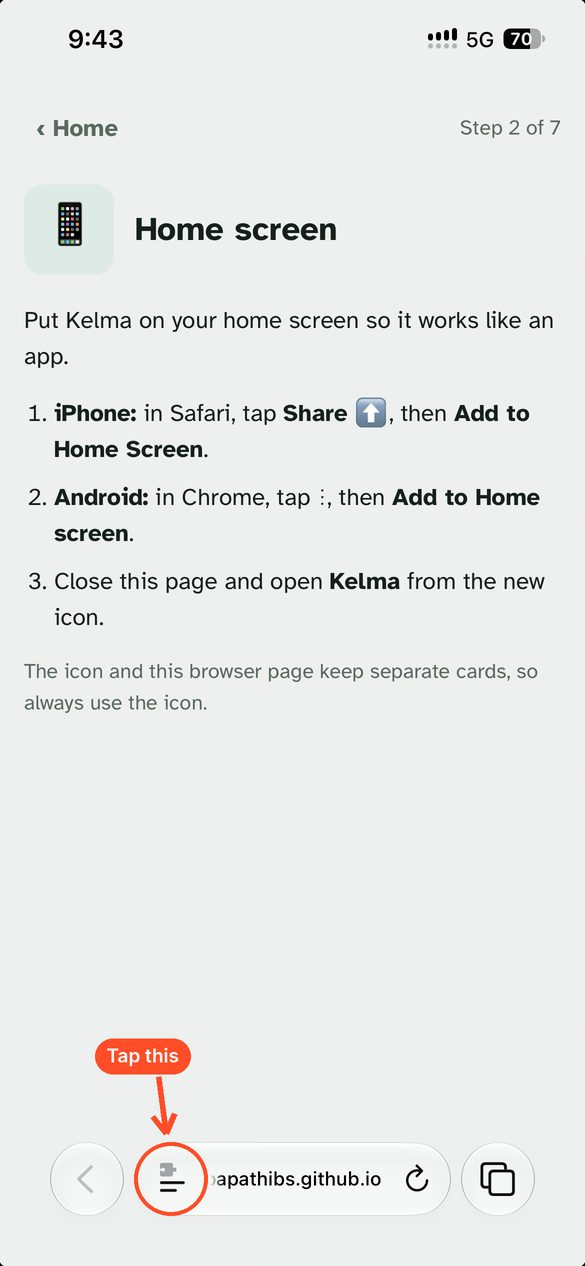
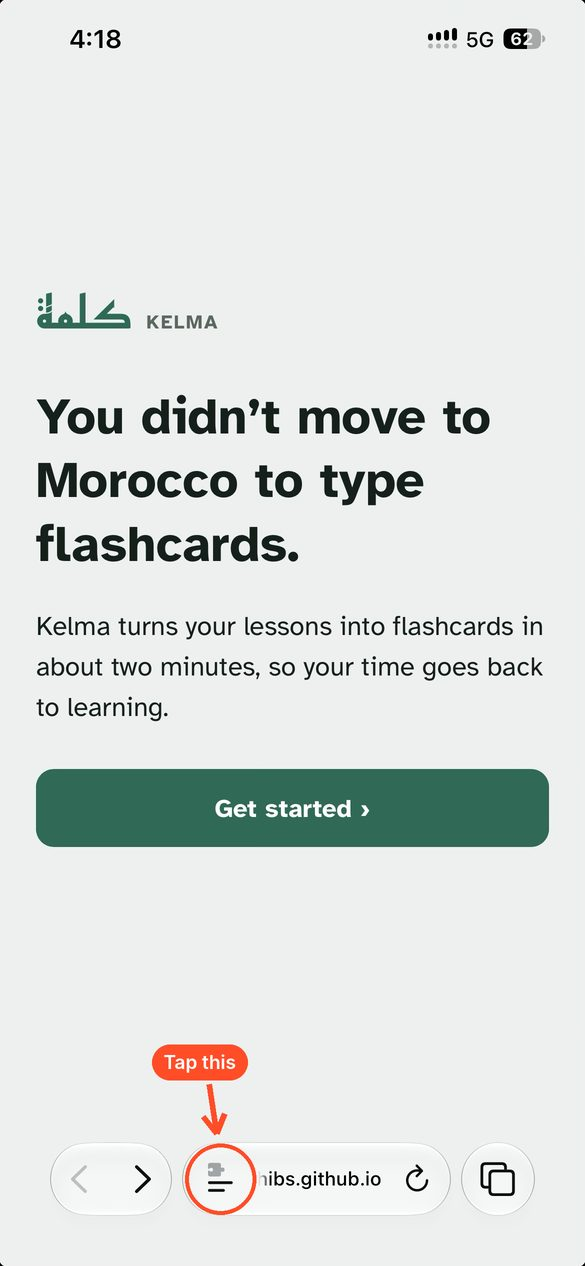
Kelma v38: new install pictures taken on the welcome screen, 3 steps
Claude-Session: https://claude.ai/code/session_01H4mFMgrQK5AXijzbRKhfPu

diff --git a/index.html b/index.html
@@ -372,7 +372,7 @@ input[type=file]{position:absolute;width:1px;height:1px;opacity:0;pointer-events
 <script>
 (function(){
 const STANDALONE=(window.matchMedia&&matchMedia('(display-mode: standalone)').matches)||navigator.standalone===true;
-const INSTR=8, APP_VERSION=37;
+const INSTR=8, APP_VERSION=38;
 const TAGS={noun:['🏷','Noun'],verb:['⚡','Verb'],adjective:['🎨','Adjective'],connector:['🔗','Connector'],question:['❓','Question'],phrase:['🗨','Phrase'],proverb:['💬','Proverb'],verse:['📖','Verse'],spiritual:['🙏','Spiritual'],instruction:['📝','Instruction']};
 const DAY=86400000, TYPES=['listening','recognition','production'];
 const app=document.getElementById('app'), fileIn=document.getElementById('file'), player=document.getElementById('player');
@@ -941,9 +941,8 @@ function stepPage(){
     `<p>Put Kelma on your home screen so it works like an app.</p>
     <div class="shots"><figure>${shot('h1-menu.jpg','Tap the button left of the address')}<figcaption>1. Tap the button to the <b>left of the address</b></figcaption></figure>
     <figure>${shot('h2-share.jpg','Tap Share')}<figcaption>2. Tap <b>Share</b></figcaption></figure>
-    <figure>${shot('h3-more.jpg','Tap View More')}<figcaption>3. Tap <b>View More</b></figcaption></figure>
-    <figure>${shot('h4-add.jpg','Tap Add to Home Screen')}<figcaption>4. Tap <b>Add to Home Screen</b></figcaption></figure></div>
-    <p>5. Tap <b>Add</b>. Close Safari and open <b>Kelma</b> from the new icon.</p>
+    <figure>${shot('h3-add.jpg','Scroll down and tap Add to Home Screen')}<figcaption>3. Scroll down, tap <b>Add to Home Screen</b></figcaption></figure></div>
+    <p>4. Tap <b>Add</b>. Close Safari and open <b>Kelma</b> from the new icon.</p>
     <p class="fine">On older iPhones, Share is the ⬆ button at the bottom of Safari.<br><b>Android:</b> in Chrome, tap ⋮, then <b>Add to Home screen</b>.<br>The icon and this browser page keep separate cards, so always use the icon.</p>`;
   else if(x.k==='name')b=dn?`<p>You’re <b>${esc(curProfile().name)}</b>. Change it any time in Settings.</p><button class="btn primary focus" data-act="setupNext">Next step ›</button>`:
     `<p>Your name shows on the weekly picture you can share.</p><input class="search" id="my-name" maxlength="24" autocomplete="given-name" placeholder="Your first name"><button class="btn primary focus" data-act="saveMyName">Save</button>`;

diff --git a/sw.js b/sw.js
@@ -1,5 +1,5 @@
-const V='kelma-v37';
-const CORE=['./','index.html','guide.html','instructions.txt','jszip.min.js','manifest.webmanifest','icon-180.png','icon-192.png','icon-512.png','setup/1-projects.jpg','setup/2-new-project.jpg','setup/3-name.jpg','setup/4-pin.jpg','setup/5-instructions.jpg','setup/6-paste.jpg','setup/starter.zip','setup/h1-menu.jpg','setup/h2-share.jpg','setup/h3-more.jpg','setup/h4-add.jpg','setup/w1-forward.jpg','setup/w2-share.jpg','setup/w3-copy.jpg','setup/x1-group.jpg','setup/x2-export.jpg','setup/x3-allmedia.jpg','setup/x4-clear.jpg','setup/x5-clearall.jpg'];
+const V='kelma-v38';
+const CORE=['./','index.html','guide.html','instructions.txt','jszip.min.js','manifest.webmanifest','icon-180.png','icon-192.png','icon-512.png','setup/1-projects.jpg','setup/2-new-project.jpg','setup/3-name.jpg','setup/4-pin.jpg','setup/5-instructions.jpg','setup/6-paste.jpg','setup/starter.zip','setup/h1-menu.jpg','setup/h2-share.jpg','setup/h3-add.jpg','setup/w1-forward.jpg','setup/w2-share.jpg','setup/w3-copy.jpg','setup/x1-group.jpg','setup/x2-export.jpg','setup/x3-allmedia.jpg','setup/x4-clear.jpg','setup/x5-clearall.jpg'];
 self.addEventListener('install',e=>{e.waitUntil(caches.open(V).then(c=>c.addAll(CORE)));self.skipWaiting()});
 self.addEventListener('activate',e=>{e.waitUntil(caches.keys().then(ks=>Promise.all(ks.filter(k=>k!==V).map(k=>caches.delete(k)))).then(()=>self.clients.claim()))});
 self.addEventListener('fetch',e=>{
